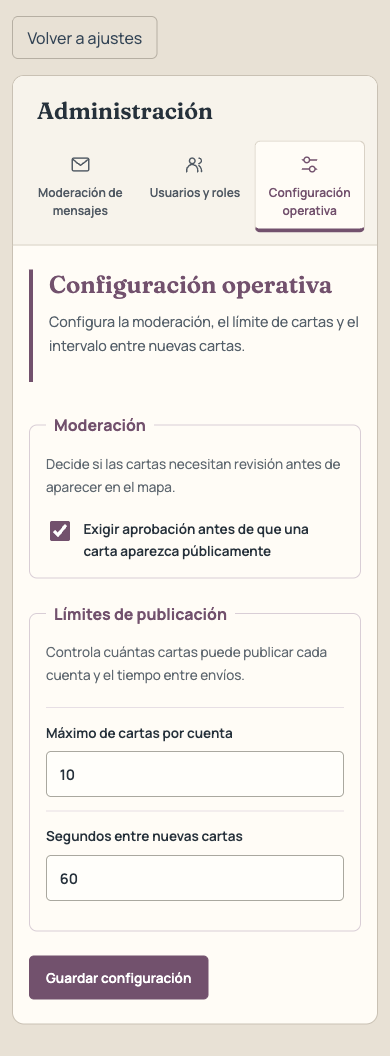
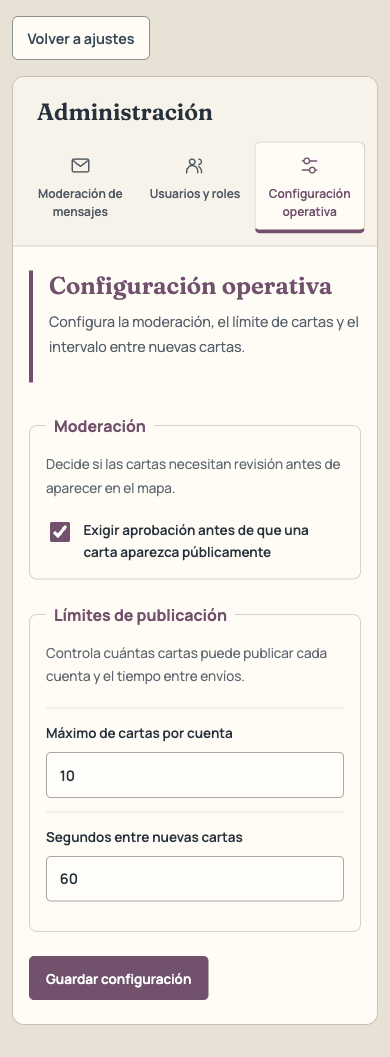
fix(admin): preserve panel background and improve back button contrast

diff --git a/src/components/admin/admin.css b/src/components/admin/admin.css
@@ -1,5 +1,7 @@
-.admin-page { background: #e8e1d5; font-family: var(--font-interface), sans-serif; color: #26313b; }
-.admin-page .auth-back { background: transparent; color: #344556; border: 1px solid #b6afa3; border-radius: 6px; }
+.auth-page.admin-page { background: #e8e1d5; font-family: var(--font-interface), sans-serif; color: #26313b; }
+.admin-page .auth-back { display: inline-flex; align-items: center; min-height: 44px; background: #fffcf6; color: #344556; border: 1px solid #8b918f; border-radius: 6px; font-size: .9rem; font-weight: 600; }
+.admin-page .auth-back:hover { background: #edf3f7; border-color: #285574; }
+.admin-page .auth-back:focus-visible { outline: 3px solid #285574; outline-offset: 3px; }
 .admin-panel { width: min(100%, 1240px); margin: 1.5rem auto 0; display: grid; grid-template-columns: 240px minmax(0, 1fr); background: #fffcf6; border: 1px solid #c9c1b4; border-radius: 12px; overflow: clip; }
 .admin-sidebar { padding: 2rem 1rem; background: #f7f3eb; border-right: 1px solid #d9d2c6; }
 .admin-sidebar h1 { margin: 0 0 2rem; padding-inline: .75rem; font-family: var(--font-display), Georgia, serif; font-size: 1.45rem; font-weight: 600; }
@@ -74,7 +76,7 @@
   .admin-message-list .admin-decision-form, .admin-message-list > li > .profile-note { border-left: 0; border-top: 1px solid #cbd6dc; }
 }
 @media (max-width: 700px) {
-  .admin-page { padding: 1rem .75rem 2rem; }
+  .auth-page.admin-page { padding: 1rem .75rem 2rem; }
   .admin-panel { grid-template-columns: minmax(0, 1fr); margin-top: 1rem; }
   .admin-sidebar { padding: 1.25rem .75rem .75rem; border-right: 0; border-bottom: 1px solid #d9d2c6; }
   .admin-sidebar h1 { margin-bottom: 1rem; }
